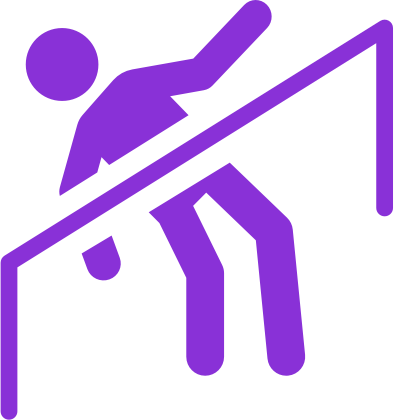
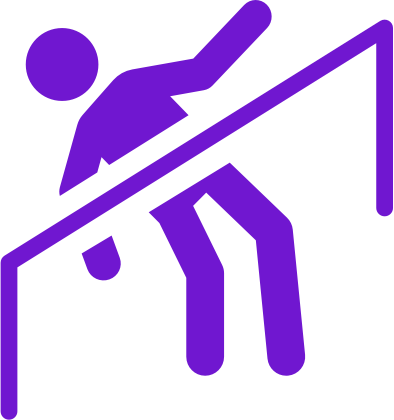
Change to purple

diff --git a/public/index.html b/public/index.html
@@ -13,7 +13,7 @@
     <link rel="icon" type="image/png" sizes="32x32" href="/favicon-32x32.png">
     <link rel="icon" type="image/png" sizes="16x16" href="/favicon-16x16.png">
     <link rel="manifest" href="/site.webmanifest">
-    <link rel="mask-icon" href="/safari-pinned-tab.svg" color="#166AFF">
+    <link rel="mask-icon" href="/safari-pinned-tab.svg" color="#7017D0">
     <link href="https://fonts.googleapis.com/css?family=Roboto:300,400,500,600" rel="stylesheet">
     <link href="https://fonts.googleapis.com/css?family=Audiowide" rel="stylesheet">
     <link href="https://fonts.googleapis.com/icon?family=Material+Icons" rel="stylesheet">

diff --git a/src/Application/Components/LearningModalCard.js b/src/Application/Components/LearningModalCard.js
@@ -3,10 +3,10 @@
 /* eslint-disable */
 import React, { Component } from "react";
 import { gMuiTheme } from "./Styles";
-import moneylineB from "../../Assets/moneyline_blue.png";
-import spreadB from "../../Assets/spread_blue.png";
-import overunderB from "../../Assets/overunder_blue.png";
-import progressBar from "../../Assets/progressBarGreen.png";
+import moneylineB from "../../Assets/moneyline_purple.png";
+import spreadB from "../../Assets/spread_purple.png";
+import overunderB from "../../Assets/overunder_purple.png";
+import progressBar from "../../Assets/progressBarPurple.png";
 
 type CardProps = {
   betDetail: string,

diff --git a/src/Application/Components/Profile/ManagerProfile.js b/src/Application/Components/Profile/ManagerProfile.js
@@ -55,7 +55,7 @@ const linearStyle = {
   width: 256,
   height: 24,
   borderRadius: 8,
-  backgroundColor: "rgba(26, 102, 26, 0.2)",
+  backgroundColor: "rgba(112,23,208, 0.2)",
   left: 0
 };
 
@@ -115,7 +115,7 @@ export default class Performance extends Component<PerformanceProps> {
       e.stopPropagation();
       const wagering = true;
       const fade = e.target.id === 'bet-against';
-      this.setState({ wagering, fundToWager, fade })  
+      this.setState({ wagering, fundToWager, fade })
     }
   }
 

diff --git a/src/Application/Components/ManagerStyles.js b/src/Application/Components/ManagerStyles.js
@@ -1,8 +1,8 @@
 import getMuiTheme from "material-ui/styles/getMuiTheme";
 import { createMuiTheme } from "@material-ui/core/styles";
 
-const themeColor = "rgb(26,102,26)";
-const themeColorLight = "rgba(26,102,26, 0.16)";
+const themeColor = "rgb(112,23,208)";
+const themeColorLight = "rgba(112,23,208, 0.16)";
 const alertColor = "#d50000";
 const textColor1 = "rgba(0,0,0,0.87)";
 const textColor2 = "rgba(0,0,0,0.54)";

diff --git a/src/Application/Components/Styles.js b/src/Application/Components/Styles.js
@@ -1,8 +1,8 @@
 import getMuiTheme from "material-ui/styles/getMuiTheme";
 import { createMuiTheme } from "@material-ui/core/styles";
 
-const themeColor = "rgb(26,102,26)";
-const themeColorLight = "rgba(26,102,26, 0.16)";
+const themeColor = "rgb(112,23,208)";
+const themeColorLight = "rgba(112,23,208, 0.16)";
 const alertColor = "#d50000";
 const textColor1 = "rgba(0,0,0,0.87)";
 const textColor2 = "rgba(0,0,0,0.54)";

diff --git a/src/Application/Components/Fund/FundDetailHeader.js b/src/Application/Components/Fund/FundDetailHeader.js
@@ -39,7 +39,7 @@ export default (props: WagerStatProps) => {
     width: 64,
     height: 8,
     borderRadius: 8,
-    backgroundColor: props.fade ? "rgb(213, 0, 0, 0.2)" : "rgba(26, 102, 26, 0.2)"
+    backgroundColor: props.fade ? "rgb(213, 0, 0, 0.2)" : "rgba(112,23,208, 0.2)"
   };
 
   const triStyle = {

diff --git a/src/Application/Components/Manage/Funds.js b/src/Application/Components/Manage/Funds.js
@@ -247,7 +247,7 @@ export default class Funds extends Component<FundsProps> {
       height: 8,
       borderRadius: 6,
       top: 15,
-      backgroundColor: "rgba(26, 102, 26, 0.2)"
+      backgroundColor: "rgba(112,23,208, 0.2)"
     };
 
     const cardTitleStyle = {

diff --git a/src/Application/Components/Header.js b/src/Application/Components/Header.js
@@ -81,7 +81,7 @@ const HistoryWithBadge = props => (
       style={{
         fill:
           props.selectedIndex === 2
-            ? "rgb(26, 102, 26)"
+            ? "rgb(112,23,208)"
             : "rgba(0, 0, 0, 0.54)"
       }}
     />

diff --git a/src/Application/Components/Profile/ManagerProfile.css b/src/Application/Components/Profile/ManagerProfile.css
@@ -25,7 +25,7 @@
 
 .manager-card-follow {
     font-size: 14px;
-    color: #1A661A;
+    color: #7017D0;
     font-weight: 500;
     padding: 6px 0;
     text-align: center;

diff --git a/src/Application/Components/Lobby/LobbyCard.css b/src/Application/Components/Lobby/LobbyCard.css
@@ -37,7 +37,7 @@
 
 .pool-action {
     display:flex;
-    color: #1A661A;
+    color: #7017D0;
     justify-content: center;
     align-items: center;
     width: 50%;

diff --git a/src/Application/Components/Lobby/ManagerRow.css b/src/Application/Components/Lobby/ManagerRow.css
@@ -33,7 +33,7 @@
 
 .manager-follow {
     font-size: 14px;
-    color: #1A661A;
+    color: #7017D0;
     font-weight: 500;
     padding: 6px 0;
     text-align: left;
